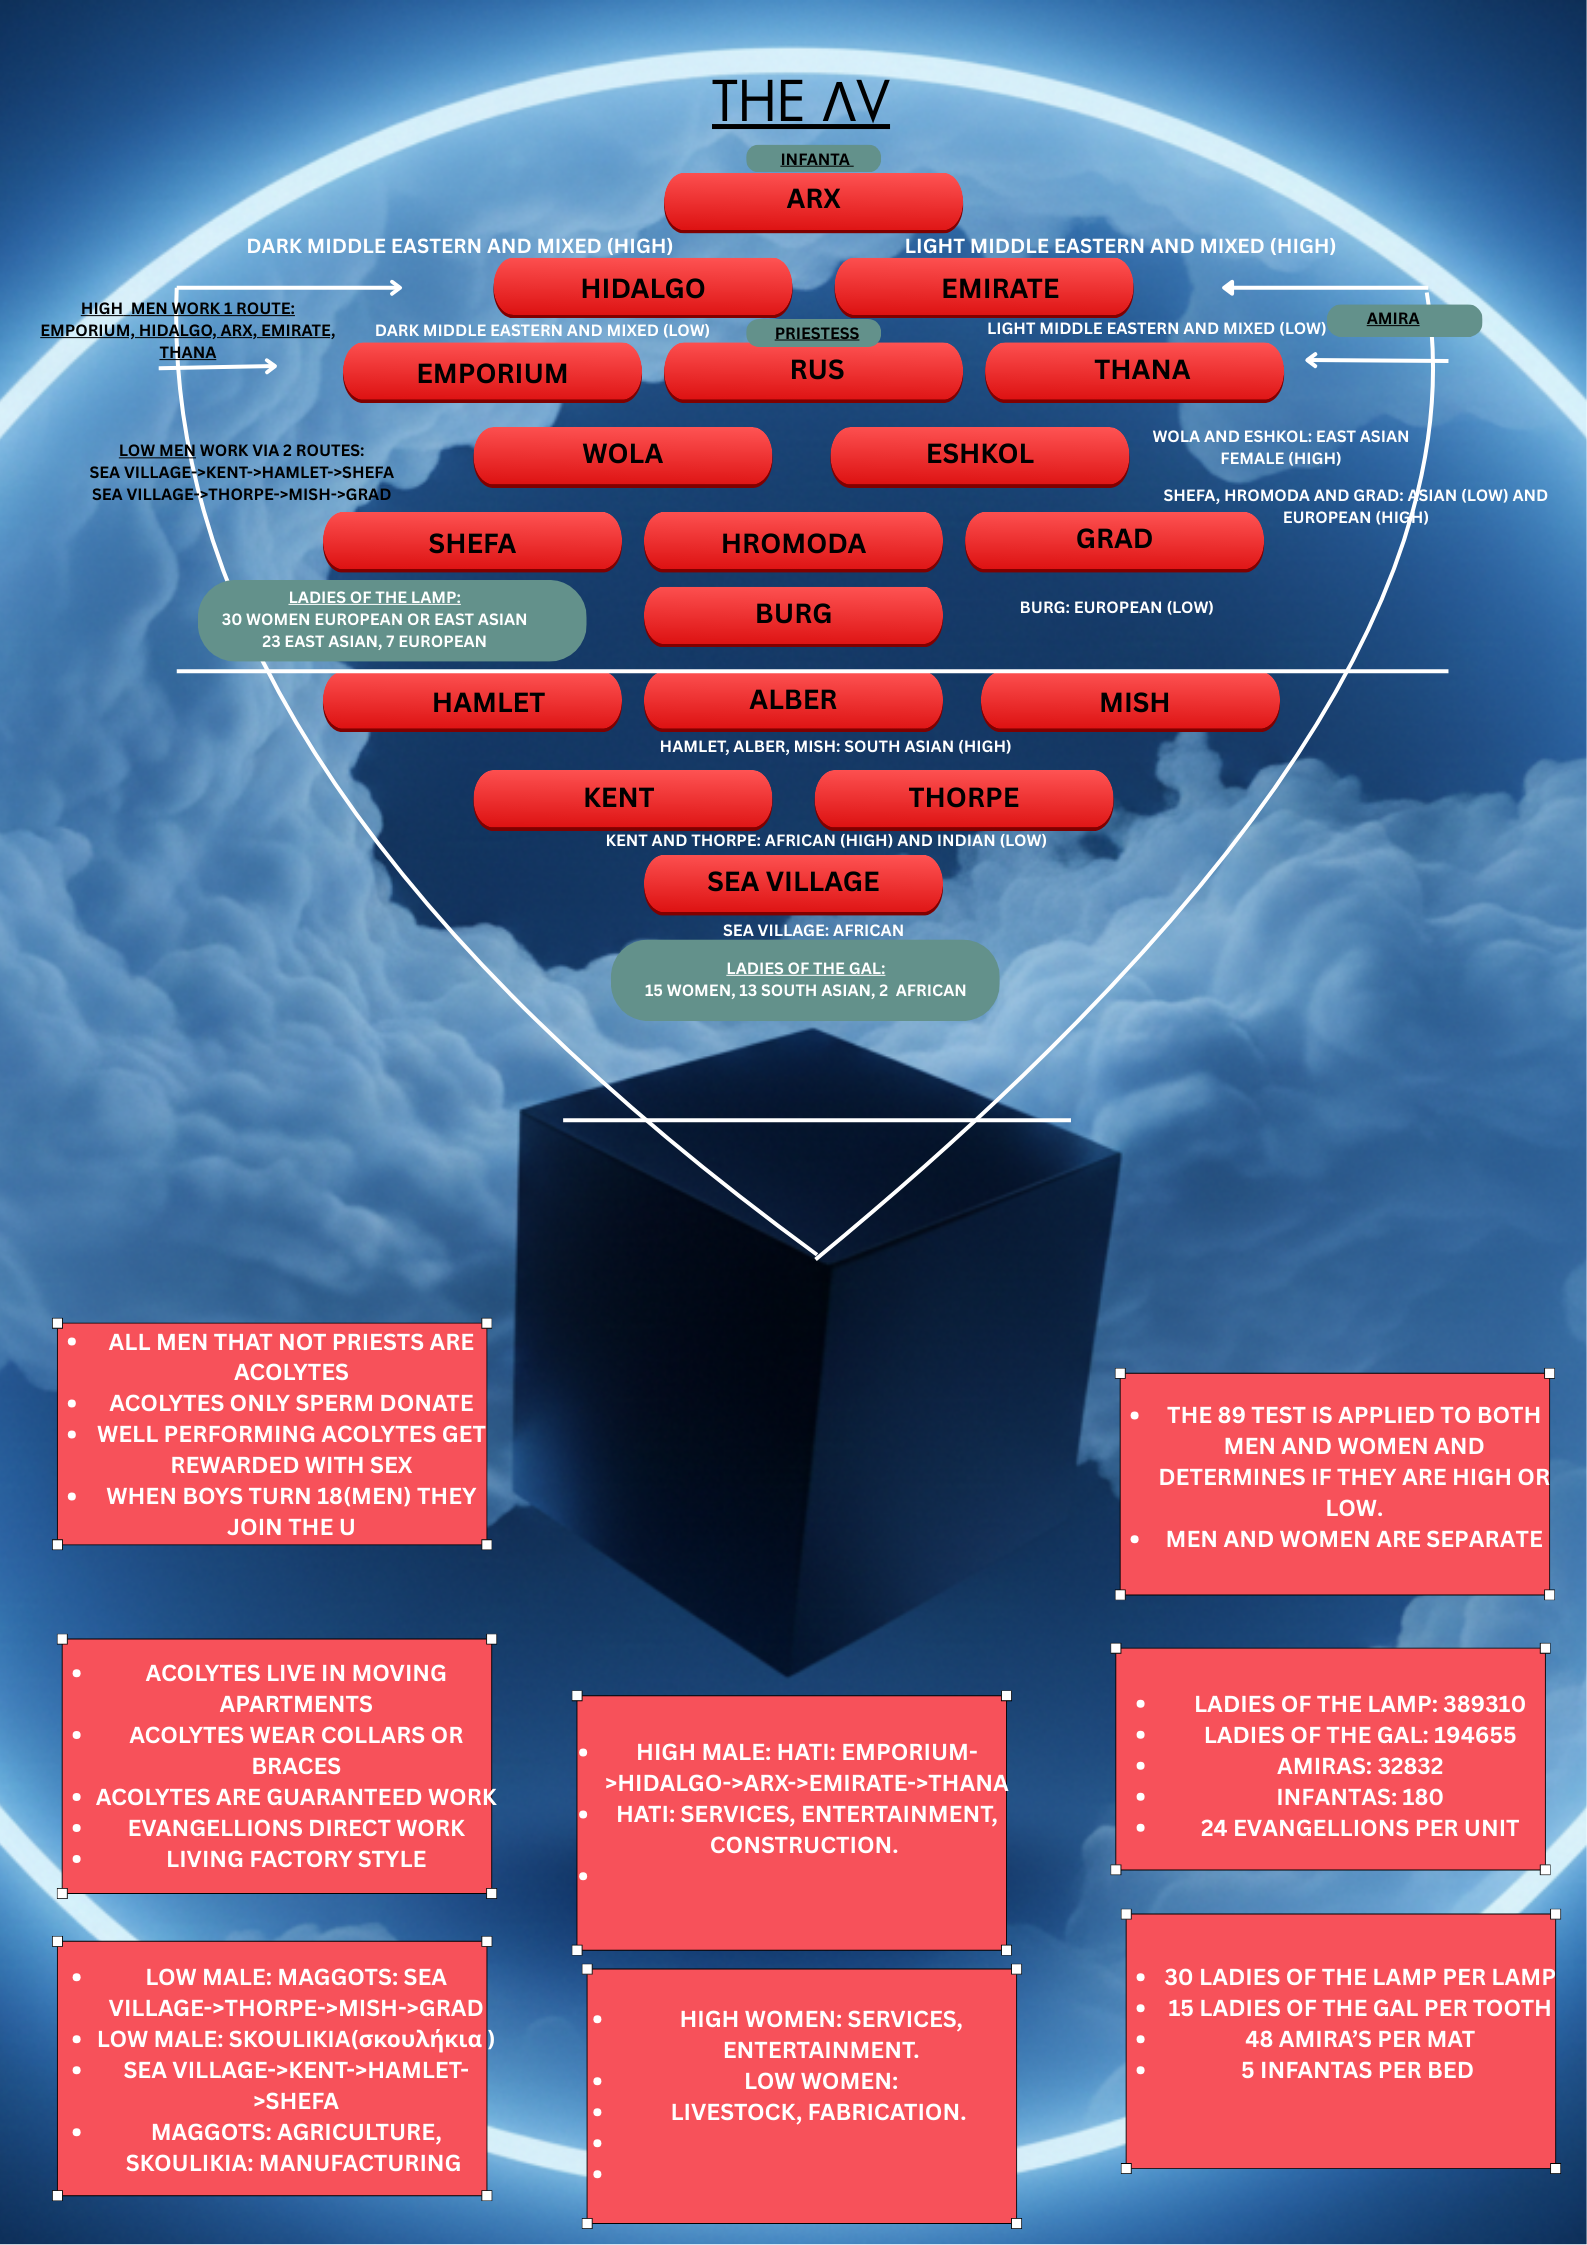
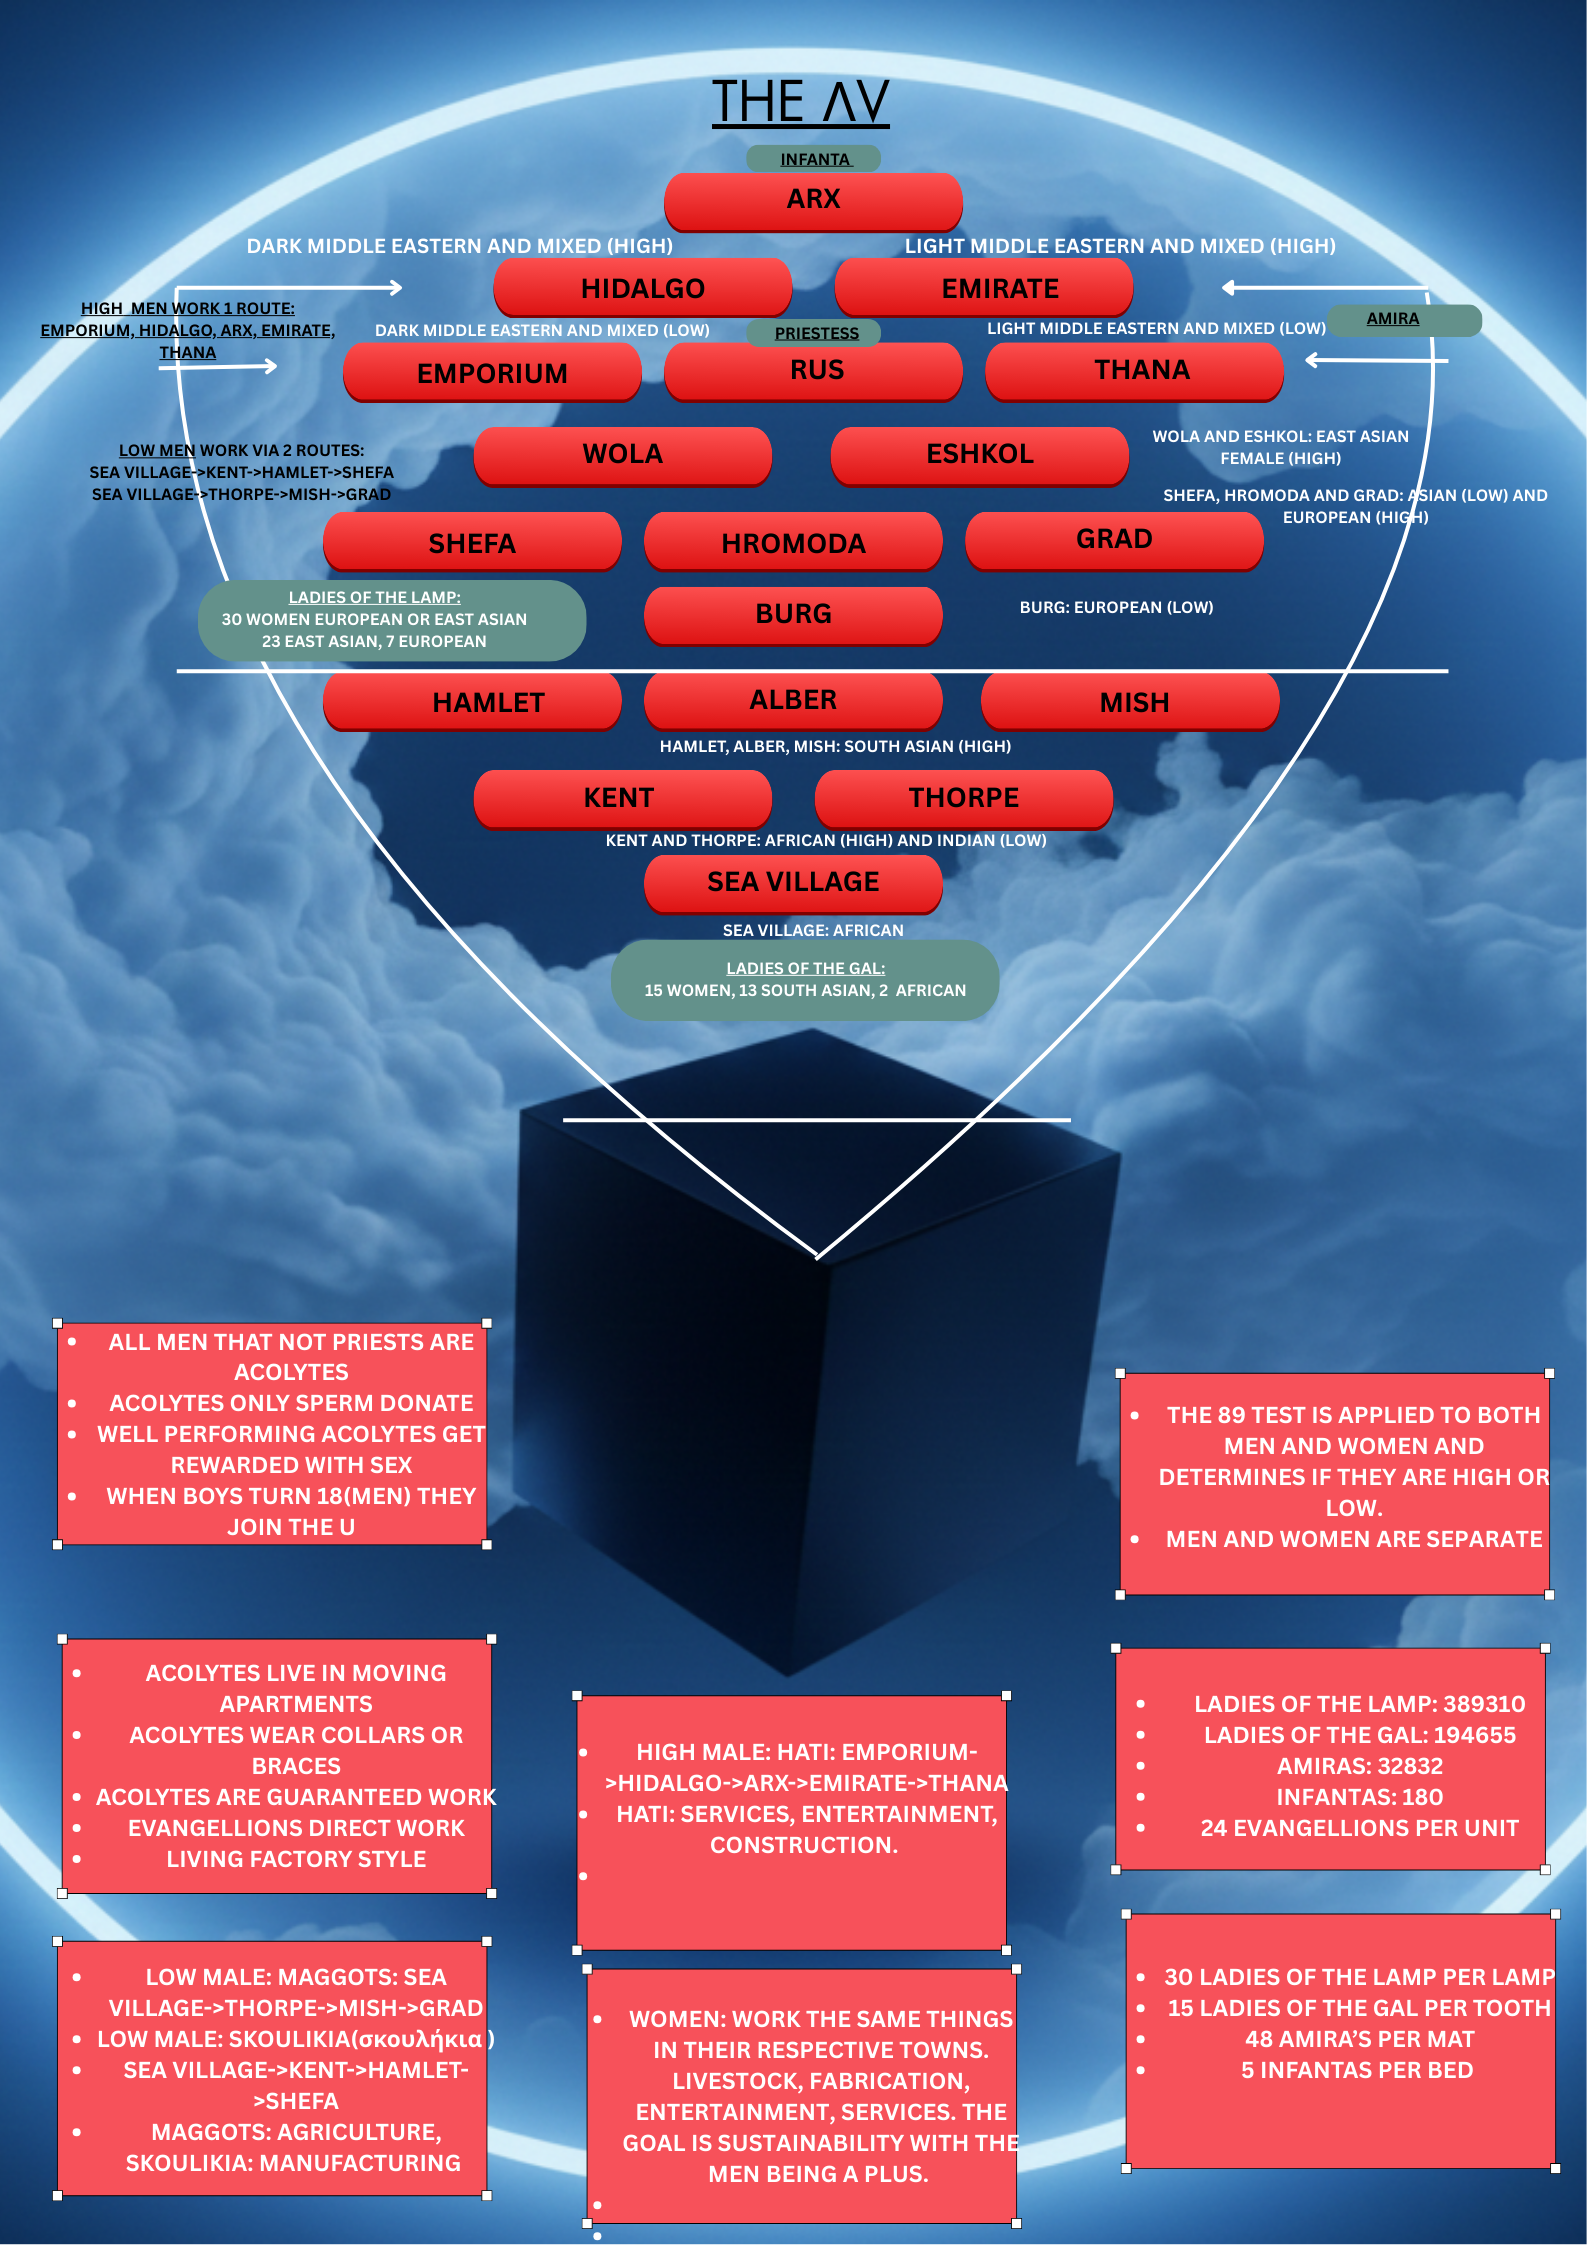
Starting the 19th day changes.

Changed region(s): [[0.4014, 0.8731, 0.6484, 0.9666]]

diff --git a/src/App.js b/src/App.js
@@ -2753,7 +2753,7 @@ const CarouselContent = ({ large = false }) => (
             alignItems: "center",
           }}
         >
-          Alber
+          Towns
           <span style={{ opacity: 0.6 }}>
             {openSideBox === "left" ? "−" : "+"}
           </span>
@@ -2767,13 +2767,15 @@ const CarouselContent = ({ large = false }) => (
           }}
         >
           <p style={{ fontSize: "15px", lineHeight: 1.6 }}>
-            Each letter of HAM KT S WE SHG B aka KTSHAM WEBSHG represents a town. 
+            Each letter of HAM KT S WE SHG B aka KTSHAM WEBSHG represents a town. The towns are female only with men living in mobile apartments connected via an 
+            inter loop/rail system. Each apartment is attachable to each other and is road and rail/loop compatible. The only men in each 
             These towns are made up of 6 villages designed to hold 4560 people in saddles or 4380 people in triangles/sandwiches. 
-            They are agriculture centered with the outside zones being for manufacturing. 
+            They are livestock centered with the outside zones being for manufacturing. 
             Each residential area has a temple, church or mosque (TCIHJB) and each town is walled with roads that run alongside on multiple levels with buildings. 
             On the levels are the service and entertainment buildings designed like elephant heads to be multileveled and support the roads and transport to and from. 
-            There are 8 castles that serve as government buildings and Ladies of the Lamp residences. 
-            This is where the members of FDELM will also go to work. 
+            There are 8 castles that serve as government buildings and Ladies of the Lamp/Gal residences. Men live as a part of the Interrail and travel between towns 
+            working as maggots, skoulikia or hati depending on their attainment. 
+            
             The Towns are designed to be good for the Ladies of the Lamp as they don't have to travel for to shop and can remain safe in the castle while also being supported by the evangelions and FDELM.
           </p>
         </div>
@@ -2847,10 +2849,12 @@ const CarouselContent = ({ large = false }) => (
           }}
         >
           <p style={{ fontSize: "15px", lineHeight: 1.6 }}>
-            There are 20 Ladies of the Lamp per city and 12 towns per city and the total number of Ladies of the Lamp is 93312 worldwide. 
+            There are 30 Ladies of the Lamp per lamp and a Lamp is 6 towns. There are 15 Ladies of the Gal per Tooth and a Tooth is 6 towns. A Lamp and a Tooth come 
+            together with a Christmas and the Interrail to form a CLIT (clit). There are 12977 clits in total and they form the PIG (production integrated globe). 
+
             The Ladies of the Lamp will move about often. The total population of a city is 354504 and a Town is 29542. 
             Saddles can contain 38 people and are built in neighborhoods of 120 and sandwiches can contain 60 people and are built in neighborhoods of 73. 
-            Priestesses are shared between 4 cities. Hospitals are a service and within the walls. 
+            Priestesses live with a Rus and move about as needed within a CLIT. Hospitals are a service and within the walls. 
             There will be local health facilities and convenience stores at each residential area serviced by people and evangelions. 
             Training will be provided for a range of work in PMSEC and everybody will have a specialism in one job in these categories. 
             People are sorted based on a test which ranks their best goodness, then their worst attribute in life, followed by their worst attribute in goodness, 
